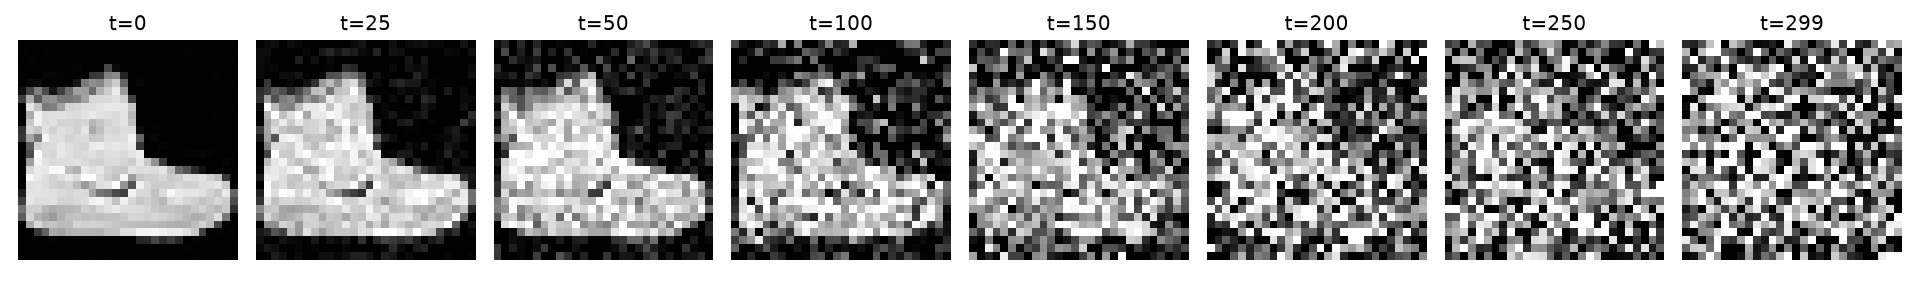
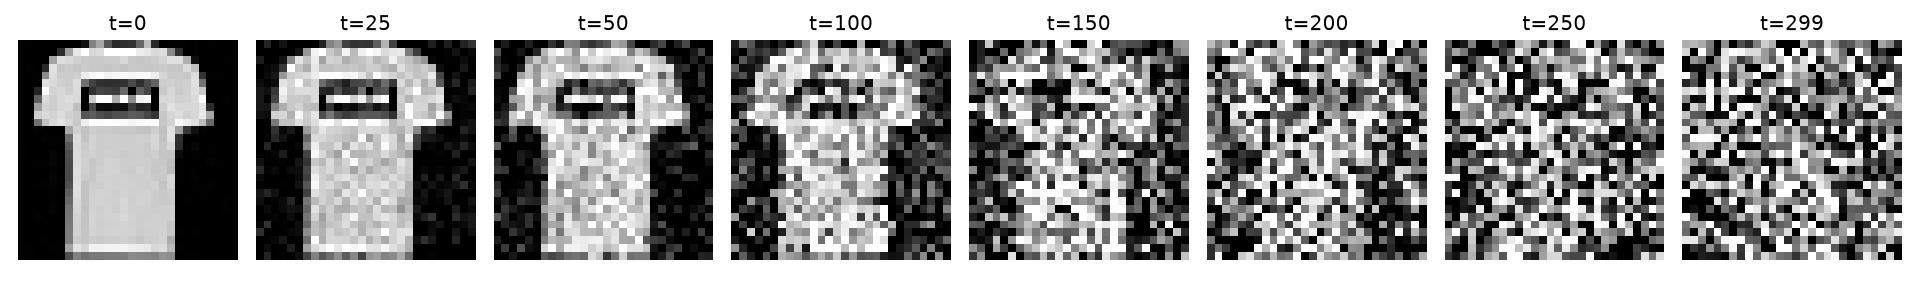
feat: diffusion progress

diff --git a/diffusion.py b/diffusion.py
@@ -16,9 +16,15 @@ betas = linear_beta_schedule(TIMESTEPS)
 alphas = 1.0 - betas # signal surviving ONE step
 # ... all steps up to t
 alphas_cumprod = torch.cumprod(alphas, dim=0)
+# define alphas
+alphas = 1. - betas
+alphas_cumprod_prev = F.pad(alphas_cumprod[:-1], (1, 0), value=1.0)
+sqrt_recip_alphas = torch.sqrt(1.0 / alphas)
 
 sqrt_alphas_cumprod = torch.sqrt(alphas_cumprod)
-sqrt_one_minus_alphas_cumprod = torch.sqrt(1.0 - alphas_cumprod)
+sqrt_one_minus_alphas_cumprod = torch.sqrt(1. - alphas_cumprod)
+
+posterior_variance = betas * (1. - alphas_cumprod_prev) / (1. - alphas_cumprod)
 
 def extract(
     a: torch.Tensor,
@@ -85,3 +91,36 @@ def p_losses(
         # as l2
         case "huber": # l2 if small, l1 if large
             return F.smooth_l1_loss(noise, predicted_noise)
+
+@torch.no_grad() # nothing is training
+def p_sample(
+    model: nn.Module,
+    x: torch.Tensor,
+    t: torch.Tensor,
+    t_index: int
+) -> torch.Tensor:
+    """
+    Produce x_{t-1} from x_t
+    Then add jitter/noise
+    We have to add noise or else the sample becomes, say, the mean of
+    all boots, instead of a specific boot looking thing. We dont want a
+    blob that looks like the mean of all boots
+    """
+    betas_t = extract(betas, t, x.shape)
+    sqrt_one_minus_alphas_cumprod_t = extract(
+        sqrt_one_minus_alphas_cumprod, t, x.shape
+    )
+    sqrt_recip_alphas_t = extract(sqrt_recip_alphas, t, x.shape)
+
+    # where our model predicts x_{t-1} is
+    model_mean = sqrt_recip_alphas_t * (
+        x - betas_t * model(x, t) / sqrt_one_minus_alphas_cumprod_t
+    )
+
+    if t_index == 0:
+        return model_mean
+    else:
+        posterior_variance_t = extract(posterior_variance, t, x.shape)
+        noise = torch.randn_like(x)
+
+        return model_mean + torch.sqrt(posterior_variance_t) * noise

diff --git a/visualize.py b/visualize.py
@@ -10,7 +10,7 @@ def to_image(x: torch.Tensor) -> torch.Tensor:
     return ((x + 1) / 2).squeeze().clamp(0, 1)
 
 
-x_start = train_set[0][0]                    # one garment, already in [-1, 1]
+x_start = train_set[1][0]                    # one garment, already in [-1, 1]
 steps = [0, 25, 50, 100, 150, 200, 250, 299]
 
 fig, axes = plt.subplots(1, len(steps), figsize=(2 * len(steps), 2.5))
